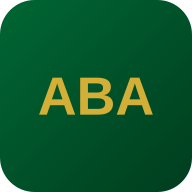
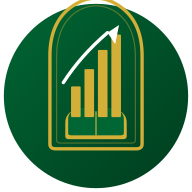
prisma

diff --git a/scripts/gen-logos.ts b/scripts/gen-logos.ts
@@ -1,61 +1,106 @@
-// Generate 3 logo options for Al-Bashir Academy (ABA)
+// Generate the Al-Bashir Academy logo in GREEN + GOLD
+// Clear, large, readable text
 import sharp from 'sharp'
 import path from 'path'
 
-const OUT_DIR = path.join(process.cwd(), 'download')
+const OUT_DIR = path.join(process.cwd(), 'public')
 
-// Logo 1: Classic — Open book with ABA monogram
-const logo1 = (size: number) => `<svg width="${size}" height="${size}" viewBox="0 0 400 400" xmlns="http://www.w3.org/2000/svg">
-  <defs>
-    <linearGradient id="g1" x1="0%" y1="0%" x2="100%" y2="100%">
-      <stop offset="0%" stop-color="#006633"/>
-      <stop offset="100%" stop-color="#003d1f"/>
-    </linearGradient>
-  </defs>
-  <rect width="400" height="400" rx="60" fill="url(#g1)"/>
-  <path d="M 100 140 Q 200 100 200 140 Q 200 100 300 140 L 300 280 Q 200 240 200 280 Q 200 240 100 280 Z" fill="none" stroke="#D4AF37" stroke-width="6"/>
-  <line x1="200" y1="140" x2="200" y2="280" stroke="#D4AF37" stroke-width="4"/>
-  <text x="200" y="350" font-family="Georgia, serif" font-size="48" font-weight="bold" fill="#D4AF37" text-anchor="middle" dominant-baseline="central">ABA</text>
+// Full logo — transparent background, LARGE clear text
+const fullLogo = (w: number, h: number) => `<svg width="${w}" height="${h}" viewBox="0 0 360 440" xmlns="http://www.w3.org/2000/svg">
+
+  <!-- ICON: Pointed ogee arch with book, bars, arrow -->
+  <g transform="translate(180, 160)">
+    <!-- Outer arch — pointed ogee (GREEN, thick) -->
+    <path d="M -100 -50 Q -100 -125 -58 -150 Q -30 -170 0 -180 Q 30 -170 58 -150 Q 100 -125 100 -50 L 100 75 Q 100 83 92 83 L -92 83 Q -100 83 -100 75 Z"
+          fill="none" stroke="#006633" stroke-width="6"/>
+
+    <!-- Inner arch (GOLD, thin) -->
+    <path d="M -88 -45 Q -88 -118 -50 -143 Q -26 -158 0 -166 Q 26 -158 50 -143 Q 88 -118 88 -45 L 88 65 Q 88 70 82 70 L -82 70 Q -88 70 -88 65 Z"
+          fill="none" stroke="#D4AF37" stroke-width="2.5"/>
+
+    <!-- Open book at base -->
+    <!-- Gold bottom layer -->
+    <path d="M -72 38 Q -72 22 -50 18 Q -25 14 0 22 Q 25 14 50 18 Q 72 22 72 38 L 72 58 Q 72 62 66 62 L -66 62 Q -72 62 -72 58 Z"
+          fill="#D4AF37"/>
+    <!-- Green top layer -->
+    <path d="M -68 32 Q -68 20 -47 16 Q -23 12 0 20 Q 23 12 47 16 Q 68 20 68 32 L 68 52 Q 68 56 62 56 L -62 56 Q -68 56 -68 52 Z"
+          fill="#006633"/>
+    <!-- Page lines -->
+    <path d="M -63 32 Q -44 22 -2 24 L -2 52 Q -44 48 -63 50 Z" fill="white" opacity="0.35"/>
+    <path d="M 2 24 Q 44 22 63 32 L 63 50 Q 44 48 2 52 Z" fill="white" opacity="0.35"/>
+    <line x1="0" y1="20" x2="0" y2="56" stroke="#D4AF37" stroke-width="2"/>
+
+    <!-- 4 vertical bars (GREEN) — increasing height -->
+    <rect x="-44" y="-50" width="18" height="65" fill="#006633" rx="2"/>
+    <rect x="-21" y="-74" width="18" height="89" fill="#006633" rx="2"/>
+    <rect x="2" y="-96" width="18" height="111" fill="#006633" rx="2"/>
+    <rect x="25" y="-115" width="18" height="130" fill="#006633" rx="2"/>
+
+    <!-- Curved GOLD arrow -->
+    <path d="M -58 -40 Q -22 -82 24 -125" fill="none" stroke="#D4AF37" stroke-width="4.5" stroke-linecap="round"/>
+    <polygon points="24,-125 40,-134 36,-114" fill="#D4AF37"/>
+  </g>
+
+  <!-- AL-BASHIR — LARGE, BOLD, GREEN, very readable -->
+  <text x="180" y="310" font-family="Georgia, 'Times New Roman', serif" font-size="40" font-weight="bold" fill="#006633" text-anchor="middle" letter-spacing="4">AL-BASHIR</text>
+
+  <!-- Gold lines + ACADEMY — GOLD, clear -->
+  <line x1="50" y1="335" x2="120" y2="335" stroke="#D4AF37" stroke-width="3"/>
+  <text x="180" y="341" font-family="Helvetica, Arial, sans-serif" font-size="20" font-weight="bold" fill="#D4AF37" text-anchor="middle" letter-spacing="8">ACADEMY</text>
+  <line x1="240" y1="335" x2="310" y2="335" stroke="#D4AF37" stroke-width="3"/>
+
+  <!-- Decorative diamond -->
+  <line x1="40" y1="370" x2="140" y2="370" stroke="#D4AF37" stroke-width="1.5" opacity="0.6"/>
+  <text x="180" y="376" font-family="serif" font-size="14" fill="#D4AF37" text-anchor="middle">✦</text>
+  <line x1="220" y1="370" x2="320" y2="370" stroke="#D4AF37" stroke-width="1.5" opacity="0.6"/>
+
+  <!-- Slogan — clear, readable -->
+  <text x="180" y="408" font-family="Helvetica, Arial, sans-serif" font-size="13" fill="#006633" text-anchor="middle" letter-spacing="4" font-weight="bold">KNOWLEDGE • INTEGRITY • EXCELLENCE</text>
 </svg>`
 
-// Logo 2: Modern — Graduation cap
-const logo2 = (size: number) => `<svg width="${size}" height="${size}" viewBox="0 0 400 400" xmlns="http://www.w3.org/2000/svg">
+// Compact circular icon
+const iconLogo = (size: number) => `<svg width="${size}" height="${size}" viewBox="0 0 200 200" xmlns="http://www.w3.org/2000/svg">
   <defs>
-    <linearGradient id="g2" x1="0%" y1="0%" x2="100%" y2="100%">
+    <linearGradient id="bg" x1="0%" y1="0%" x2="100%" y2="100%">
       <stop offset="0%" stop-color="#006633"/>
       <stop offset="100%" stop-color="#003d1f"/>
     </linearGradient>
   </defs>
-  <rect width="400" height="400" rx="60" fill="url(#g2)"/>
-  <polygon points="200,100 340,160 200,220 60,160" fill="#D4AF37"/>
-  <path d="M 120 180 L 120 240 Q 200 280 280 240 L 280 180" fill="none" stroke="#D4AF37" stroke-width="5"/>
-  <line x1="340" y1="160" x2="340" y2="210" stroke="#D4AF37" stroke-width="3"/>
-  <circle cx="340" cy="215" r="8" fill="#D4AF37"/>
-  <text x="200" y="330" font-family="Arial, sans-serif" font-size="42" font-weight="bold" fill="#D4AF37" text-anchor="middle" dominant-baseline="central">ABA</text>
-</svg>`
 
-// Logo 3: Elegant — Circular monogram with decorative border
-const logo3 = (size: number) => `<svg width="${size}" height="${size}" viewBox="0 0 400 400" xmlns="http://www.w3.org/2000/svg">
-  <defs>
-    <linearGradient id="g3" x1="0%" y1="0%" x2="100%" y2="100%">
-      <stop offset="0%" stop-color="#006633"/>
-      <stop offset="100%" stop-color="#003d1f"/>
-    </linearGradient>
-  </defs>
-  <rect width="400" height="400" rx="60" fill="url(#g3)"/>
-  <circle cx="200" cy="170" r="110" fill="none" stroke="#D4AF37" stroke-width="3"/>
-  <circle cx="200" cy="170" r="95" fill="none" stroke="#D4AF37" stroke-width="1" stroke-dasharray="4,4"/>
-  <circle cx="200" cy="170" r="75" fill="#D4AF37" opacity="0.1"/>
-  <text x="200" y="170" font-family="Georgia, serif" font-size="52" font-weight="bold" fill="#D4AF37" text-anchor="middle" dominant-baseline="central">ABA</text>
-  <text x="200" y="320" font-family="Georgia, serif" font-size="14" fill="#D4AF37" text-anchor="middle" letter-spacing="3">AL-BASHIR</text>
-  <text x="200" y="345" font-family="Georgia, serif" font-size="11" fill="#D4AF37" opacity="0.7" text-anchor="middle" letter-spacing="2">ACADEMY</text>
+  <!-- Green circle -->
+  <circle cx="100" cy="100" r="96" fill="url(#bg)"/>
+
+  <!-- Pointed ogee arch (GOLD) -->
+  <path d="M 52 58 Q 52 22 76 6 Q 88 -2 100 -2 Q 112 -2 124 6 Q 148 22 148 58 L 148 150 Q 148 155 142 155 L 58 155 Q 52 155 52 150 Z"
+        fill="none" stroke="#D4AF37" stroke-width="3.5"/>
+  <path d="M 59 59 Q 59 26 80 12 Q 90 6 100 6 Q 110 6 120 12 Q 141 26 141 59 L 141 146 Q 141 149 137 149 L 63 149 Q 59 149 59 146 Z"
+        fill="none" stroke="#D4AF37" stroke-width="1.2" opacity="0.4"/>
+
+  <!-- Open book (GOLD bottom, GREEN top) -->
+  <path d="M 68 128 Q 68 117 80 114 Q 90 111 100 118 Q 110 111 120 114 Q 132 117 132 128 L 132 142 Q 132 145 128 145 L 72 145 Q 68 145 68 142 Z"
+        fill="#D4AF37"/>
+  <path d="M 71 124 Q 71 116 81 113 Q 91 111 100 116 Q 109 111 119 113 Q 129 116 129 124 L 129 139 Q 129 141 125 141 L 75 141 Q 71 141 71 139 Z"
+        fill="#006633"/>
+  <line x1="100" y1="116" x2="100" y2="141" stroke="#D4AF37" stroke-width="1.2"/>
+
+  <!-- 4 bars (GOLD) -->
+  <rect x="74" y="90" width="10" height="32" fill="#D4AF37" rx="1"/>
+  <rect x="88" y="72" width="10" height="50" fill="#D4AF37" rx="1"/>
+  <rect x="102" y="52" width="10" height="70" fill="#D4AF37" rx="1"/>
+  <rect x="116" y="36" width="10" height="86" fill="#D4AF37" rx="1"/>
+
+  <!-- Curved arrow (WHITE) -->
+  <path d="M 66 86 Q 84 58 112 34" fill="none" stroke="white" stroke-width="3.5" stroke-linecap="round"/>
+  <polygon points="112,34 124,26 120,46" fill="white"/>
 </svg>`
 
 async function main() {
-  await sharp(Buffer.from(logo1(400))).png().toFile(path.join(OUT_DIR, 'logo-option-1-book.png'))
-  await sharp(Buffer.from(logo2(400))).png().toFile(path.join(OUT_DIR, 'logo-option-2-gradcap.png'))
-  await sharp(Buffer.from(logo3(400))).png().toFile(path.join(OUT_DIR, 'logo-option-3-monogram.png'))
-  console.log('3 ABA logo options generated in /download/')
+  await sharp(Buffer.from(fullLogo(360, 440))).png().toFile(path.join(OUT_DIR, 'logo-full.png'))
+  await sharp(Buffer.from(iconLogo(192))).png().toFile(path.join(OUT_DIR, 'icon-192.png'))
+  await sharp(Buffer.from(iconLogo(512))).png().toFile(path.join(OUT_DIR, 'icon-512.png'))
+  await sharp(Buffer.from(iconLogo(180))).png().toFile(path.join(OUT_DIR, 'apple-touch-icon.png'))
+  await sharp(Buffer.from(iconLogo(32))).png().toFile(path.join(OUT_DIR, 'favicon-32.png'))
+  console.log('CLEAR GREEN+GOLD logo generated!')
 }
 
 main().catch(e => { console.error(e); process.exit(1) })

diff --git a/src/components/views/auth/staff-login.tsx b/src/components/views/auth/staff-login.tsx
@@ -7,7 +7,7 @@ import { Button } from '@/components/ui/button'
 import { Input } from '@/components/ui/input'
 import { Label } from '@/components/ui/label'
 import { toast } from 'sonner'
-import { ArrowLeft, Loader2, Lock, Eye, EyeOff, Shield } from 'lucide-react'
+import { ArrowLeft, Loader2, Eye, EyeOff } from 'lucide-react'
 
 export function StaffLoginPage() {
   const router = useRouter()
@@ -27,14 +27,12 @@ export function StaffLoginPage() {
         setLoading(false)
         return
       }
-      // Check if the user is a student — block them from staff login
       if (r.user.role === 'STUDENT') {
         await fetch('/api/auth/logout', { method: 'POST' })
         toast.error('This portal is for lecturers and administrators only. Please use the student sign-in.', { duration: 6000 })
         setLoading(false)
         return
       }
-      // Staff login successful — hard redirect
       toast.success('Welcome back!')
       window.location.href = '/'
     } catch (err: any) {
@@ -44,30 +42,27 @@ export function StaffLoginPage() {
   }
 
   return (
-    <div className="min-h-screen flex flex-col relative overflow-hidden">
-      {/* Background */}
-      <div className="absolute inset-0 albashir-gradient" />
+    <div className="min-h-screen flex flex-col" style={{ background: 'linear-gradient(135deg, #006633, #003d1f)' }}>
+      {/* Gold accent overlay */}
       <div className="absolute inset-0 opacity-25" style={{ backgroundImage: 'radial-gradient(circle at 50% 0%, rgba(212,175,55,0.4) 0%, transparent 60%)' }} />
 
       {/* Content */}
       <div className="relative z-10 flex-1 flex items-center justify-center p-4">
         <div className="w-full max-w-sm">
           {/* Back link */}
-          <button onClick={() => router.push('/')} className="text-xs text-white/60 hover:text-gold flex items-center gap-1 mb-6 transition-colors">
+          <button onClick={() => router.push('/')} className="text-xs text-white/60 hover:text-[#D4AF37] flex items-center gap-1 mb-6 transition-colors">
             <ArrowLeft className="h-3 w-3" /> Back to home
           </button>
 
-          {/* Lock icon + title */}
-          <div className="text-center mb-8">
-            <div className="inline-flex h-14 w-14 rounded-full bg-gold/20 border border-gold/50 items-center justify-center mb-4">
-              <Lock className="h-6 w-6 text-gold" />
-            </div>
-            <h1 className="text-2xl font-bold text-white mb-1">Staff Portal</h1>
-            <p className="text-sm text-white/70">For lecturers and administrators only</p>
+          {/* Logo */}
+          <div className="flex flex-col items-center mb-8">
+            <img src="/logo-full.png" alt="Al-Bashir Academy" className="h-24 sm:h-28 w-auto mb-4" />
+            <h1 className="text-xl font-bold text-white">Staff Portal</h1>
+            <p className="text-xs text-white/60 mt-1">For lecturers and administrators only</p>
           </div>
 
           {/* Form card */}
-          <div className="bg-white/[0.08] backdrop-blur-md border border-white/15 rounded-xl p-5 sm:p-6 shadow-2xl">
+          <div className="bg-white/[0.08] backdrop-blur-md border border-[#D4AF37]/30 rounded-xl p-5 sm:p-6 shadow-2xl">
             <form onSubmit={submit} className="space-y-4">
               <div className="space-y-1.5">
                 <Label htmlFor="email" className="text-white/90 text-xs">Staff Email</Label>
@@ -78,7 +73,7 @@ export function StaffLoginPage() {
                   value={email}
                   onChange={(e) => setEmail(e.target.value)}
                   placeholder="you@alhikmah.edu.ng"
-                  className="bg-white/10 border-white/20 text-white placeholder:text-white/40 focus:bg-white/15 focus:border-gold/50 h-11 text-sm"
+                  className="bg-white/10 border-white/20 text-white placeholder:text-white/40 focus:bg-white/15 focus:border-[#D4AF37]/50 h-11 text-sm"
                 />
               </div>
               <div className="space-y-1.5">
@@ -91,7 +86,7 @@ export function StaffLoginPage() {
                     value={password}
                     onChange={(e) => setPassword(e.target.value)}
                     placeholder="Enter your password"
-                    className="bg-white/10 border-white/20 text-white placeholder:text-white/40 focus:bg-white/15 focus:border-gold/50 h-11 text-sm pr-10"
+                    className="bg-white/10 border-white/20 text-white placeholder:text-white/40 focus:bg-white/15 focus:border-[#D4AF37]/50 h-11 text-sm pr-10"
                   />
                   <button
                     type="button"
@@ -104,15 +99,15 @@ export function StaffLoginPage() {
                 </div>
               </div>
 
-              <Button type="submit" className="w-full bg-gold hover:bg-gold/90 text-black font-semibold h-11 text-sm" disabled={loading}>
-                {loading ? <><Loader2 className="h-4 w-4 animate-spin mr-1" /> Signing in...</> : <><Shield className="h-4 w-4 mr-1" /> Sign in</>}
+              <Button type="submit" className="w-full bg-[#D4AF37] hover:bg-[#c4a030] text-black font-semibold h-11 text-sm" disabled={loading}>
+                {loading ? <><Loader2 className="h-4 w-4 animate-spin mr-1" /> Signing in...</> : 'Sign in'}
               </Button>
             </form>
           </div>
 
           <p className="text-xs text-center text-white/50 mt-6">
             Not a staff member?{' '}
-            <button type="button" className="text-gold hover:underline font-medium" onClick={() => router.push('/register')}>Create a student account</button>
+            <button type="button" className="text-[#D4AF37] hover:underline font-medium" onClick={() => router.push('/register')}>Create a student account</button>
           </p>
         </div>
       </div>
